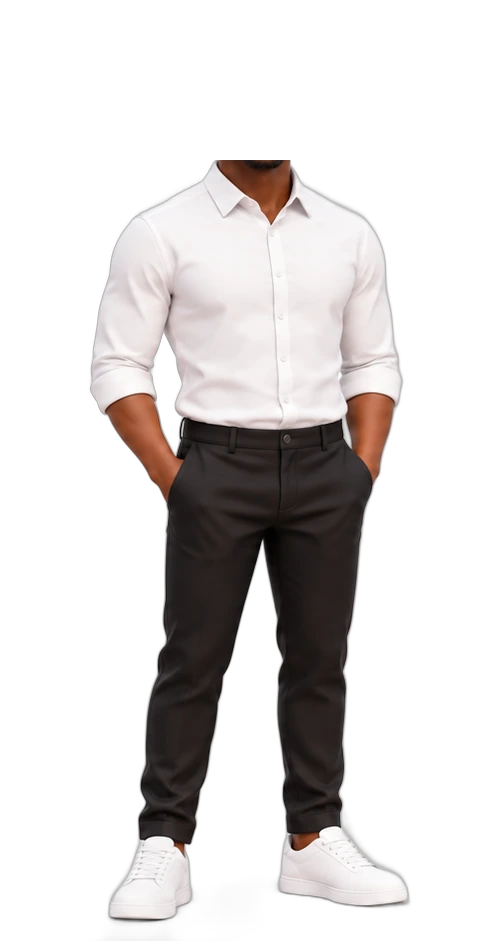
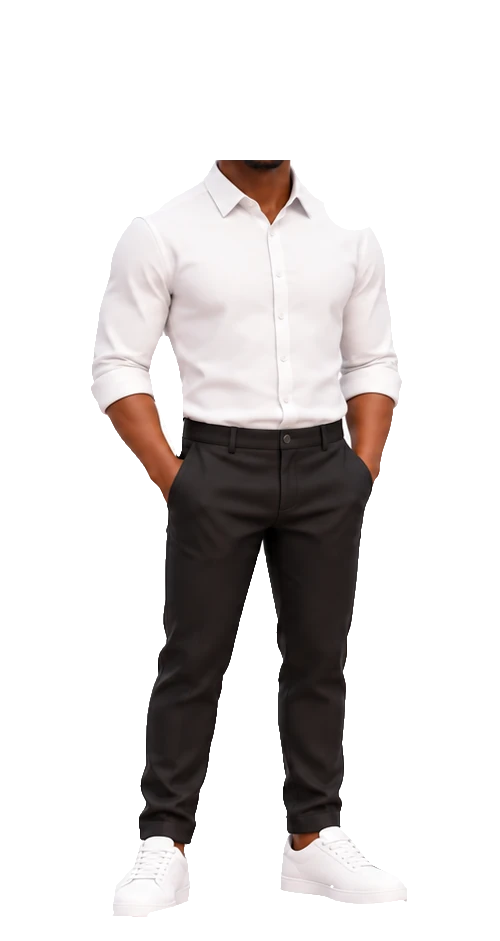
feat(hero): viewport-wide head follow with dead zone and sectors, nav-aware look, cleaner body cutout

diff --git a/src/components/hero/HeroPortrait.tsx b/src/components/hero/HeroPortrait.tsx
@@ -18,34 +18,34 @@ const HEAD_SIZES = '(max-width: 720px) 32vw, (max-width: 1050px) 24vw, 16vw';
 const HEADS = Object.keys(HERO_HEADS) as Exclude<HeroLook, 'centre'>[];
 /** Layer index of the body render's own head, kept after the turned heads. */
 const CENTRE = HEADS.length;
-const COLS = ['Left', '', 'Right'] as const;
+/** The eight directions in 45° sectors, clockwise from pointing right (screen y runs down). */
+const SECTORS: HeroLook[] = ['right', 'downRight', 'down', 'downLeft', 'left', 'upLeft', 'up', 'upRight'];
 
-/** Picks the direction for a pointer at (x, y) in the hero (0…1 each way), with the character's centre at `cx`. */
-function pickLook(x: number, y: number, cx: number, current: HeroLook): HeroLook {
-  const { centre, up, down, hysteresis: h } = HERO_LOOK_ZONES;
-  const wasUp = current.startsWith('up');
-  const wasDown = current.startsWith('down');
-  const wasCentreCol = !/left|right/i.test(current);
-  const dx = x - cx;
-  const band = wasCentreCol ? centre + h : centre - h;
-  const col = Math.abs(dx) <= band ? 1 : dx < 0 ? 0 : 2;
-  const row = y < (wasUp ? up + h : up - h) ? 'up' : y > (wasDown ? down - h : down + h) ? 'down' : '';
-  if (!row) return col === 1 ? 'centre' : col === 0 ? 'left' : 'right';
-  return (col === 1 ? row : row + COLS[col]) as HeroLook;
+/** Picks the direction for a pointer at (x, y), each normalised to -1…1 around the viewport centre. */
+function pickLook(x: number, y: number, current: HeroLook): HeroLook {
+  const { deadZone, hysteresis, angleHysteresis } = HERO_LOOK_ZONES;
+  if (Math.hypot(x, y) < (current === 'centre' ? deadZone + hysteresis : deadZone - hysteresis)) return 'centre';
+  const angle = (Math.atan2(y, x) * 180) / Math.PI;
+  const held = SECTORS.indexOf(current);
+  if (held >= 0) {
+    const off = Math.abs(((angle - held * 45 + 540) % 360) - 180);
+    if (off <= 22.5 + angleHysteresis) return current;
+  }
+  return SECTORS[(Math.round(angle / 45) + 8) % 8];
 }
 
 /** Ease for the crossfade: soft start and finish. */
 const ease = (p: number) => p * p * (3 - 2 * p);
 
 /**
- * The hero character, whose head turns toward the pointer anywhere in the hero. The body is one static image that
+ * The hero character, whose head turns toward the pointer anywhere in the viewport. The body is one static image that
  * never moves; only the head box above it changes. The other directions are head crops stacked in that box behind a
  * mask (solid over the head, fading out over the collar and shoulders, where every crop matches the body), and only
  * their opacity animates: the incoming head fades in on top of the current one; going back to centre fades the heads
  * out to reveal the body render's own head. So the character never goes see-through and nothing shifts.
  *
  * Pointer moves only store a target; one requestAnimationFrame loop eases the opacities and writes them straight to
- * the DOM (no React state per move), and stops once everything is at rest. Tracking starts only once every head has
+ * the DOM (no React state per move), and stops once everything is at rest. Heads preload on mount; tracking starts only once every head has
  * loaded and decoded, so a change never shows a blank or half-drawn image. Touch screens and reduced motion keep the
  * forward head and never download the others. The live 3D avatar (HeroAvatar) takes over once its model has loaded.
  */
@@ -84,16 +84,9 @@ export default function HeroPortrait({ avatar }: { avatar?: AvatarAssets }) {
     return () => { cancelled = true; };
   }, []);
 
-  // Only the body is needed to paint the hero. The heads are only ever shown to a mouse (never on touch or under
-  // reduced motion), so they load once the page has loaded, without competing with the hero image.
-  const [heads, setHeads] = useState(false);
-  useEffect(() => {
-    if (!tracking || heads) return;
-    const start = () => setHeads(true);
-    if (document.readyState === 'complete') { start(); return; }
-    window.addEventListener('load', start, { once: true });
-    return () => window.removeEventListener('load', start);
-  }, [tracking, heads]);
+  // The heads are only ever shown to a mouse (never on touch or under reduced motion), so only then are they
+  // loaded; all of them load as soon as the hero mounts, so the first pointer move never waits on the network.
+  const heads = tracking;
 
   const onHeadLoad = (i: number, el: HTMLImageElement) => {
     el.decode().catch(() => {}).then(() => {
@@ -104,9 +97,8 @@ export default function HeroPortrait({ avatar }: { avatar?: AvatarAssets }) {
 
   useEffect(() => {
     const wrap = wrapRef.current;
-    const hero = wrap?.closest<HTMLElement>('.hero');
     const layers = layerRefs.current;
-    if (!tracking || !ready || !wrap || !hero || HEADS.some((_, i) => !layers[i])) return;
+    if (!tracking || !ready || !wrap || HEADS.some((_, i) => !layers[i])) return;
 
     let look: HeroLook = 'centre';
     /** The head being shown (CENTRE: the body's own head), fade progress per head, and their stacking, bottom first. */
@@ -172,23 +164,27 @@ export default function HeroPortrait({ avatar }: { avatar?: AvatarAssets }) {
 
     const onMove = (e: PointerEvent) => {
       if (e.pointerType === 'touch') return;
-      const box = hero.getBoundingClientRect();
-      const char = wrap.getBoundingClientRect();
-      const x = (e.clientX - box.left) / box.width;
-      const y = (e.clientY - box.top) / box.height;
-      const cx = (char.left + char.width / 2 - box.left) / box.width;
-      setLook(pickLook(x, y, cx, look));
+      // Over a nav link the head looks at that link (from the head's own centre), not just at the pointer.
+      const link = e.target instanceof Element ? e.target.closest('.nav-pill button, .nav-pill a') : null;
+      const head = wrap.querySelector('.hero-head');
+      if (link && head) {
+        const a = link.getBoundingClientRect();
+        const h = head.getBoundingClientRect();
+        setLook(pickLook((a.left + a.width / 2 - (h.left + h.width / 2)) / (window.innerWidth / 2), (a.top + a.height / 2 - (h.top + h.height / 2)) / (window.innerHeight / 2), look));
+        return;
+      }
+      setLook(pickLook((e.clientX / window.innerWidth) * 2 - 1, (e.clientY / window.innerHeight) * 2 - 1, look));
     };
     const rest = () => setLook('centre');
 
     paint();
-    hero.addEventListener('pointermove', onMove, { passive: true });
-    hero.addEventListener('pointerleave', rest);
+    window.addEventListener('pointermove', onMove, { passive: true });
+    document.documentElement.addEventListener('pointerleave', rest);
     window.addEventListener('blur', rest);
     return () => {
       cancelAnimationFrame(raf);
-      hero.removeEventListener('pointermove', onMove);
-      hero.removeEventListener('pointerleave', rest);
+      window.removeEventListener('pointermove', onMove);
+      document.documentElement.removeEventListener('pointerleave', rest);
       window.removeEventListener('blur', rest);
       for (const el of layers) if (el) el.style.opacity = el.style.zIndex = '';
     };

diff --git a/src/config/hero.ts b/src/config/hero.ts
@@ -27,11 +27,11 @@ export const HERO_HEADS: Record<Exclude<HeroLook, 'centre'>, string> = {
 export const heroAlt = 'DOMINIC 3D character';
 
 /**
- * Where the pointer must be (anywhere in the hero) for each direction. Columns: within `centre` (share of the hero's
- * width) either side of the character it looks straight ahead, past that left or right. Rows: above `up` or below
- * `down` (shares of the hero's height) it looks up or down. A direction is kept until the pointer is `hysteresis` past
- * a boundary, so it never flickers when the pointer rests on one.
+ * Pointer zones, from the pointer's position in the viewport normalised to -1…1 on each axis (centre = 0, 0).
+ * Inside `deadZone` (distance from the centre) the head looks straight ahead; beyond it the direction is the nearest
+ * of eight 45° sectors (right, downRight, down, …). A direction is kept until the pointer is `hysteresis` further
+ * out of the dead zone, or `angleHysteresis` degrees past a sector edge, so it never flickers on a boundary.
  */
-export const HERO_LOOK_ZONES = { centre: 0.12, up: 0.33, down: 0.67, hysteresis: 0.01 } as const;
+export const HERO_LOOK_ZONES = { deadZone: 0.16, hysteresis: 0.03, angleHysteresis: 8 } as const;
 /** Crossfade between head directions, in ms. */
 export const HERO_LOOK_FADE = 150;
